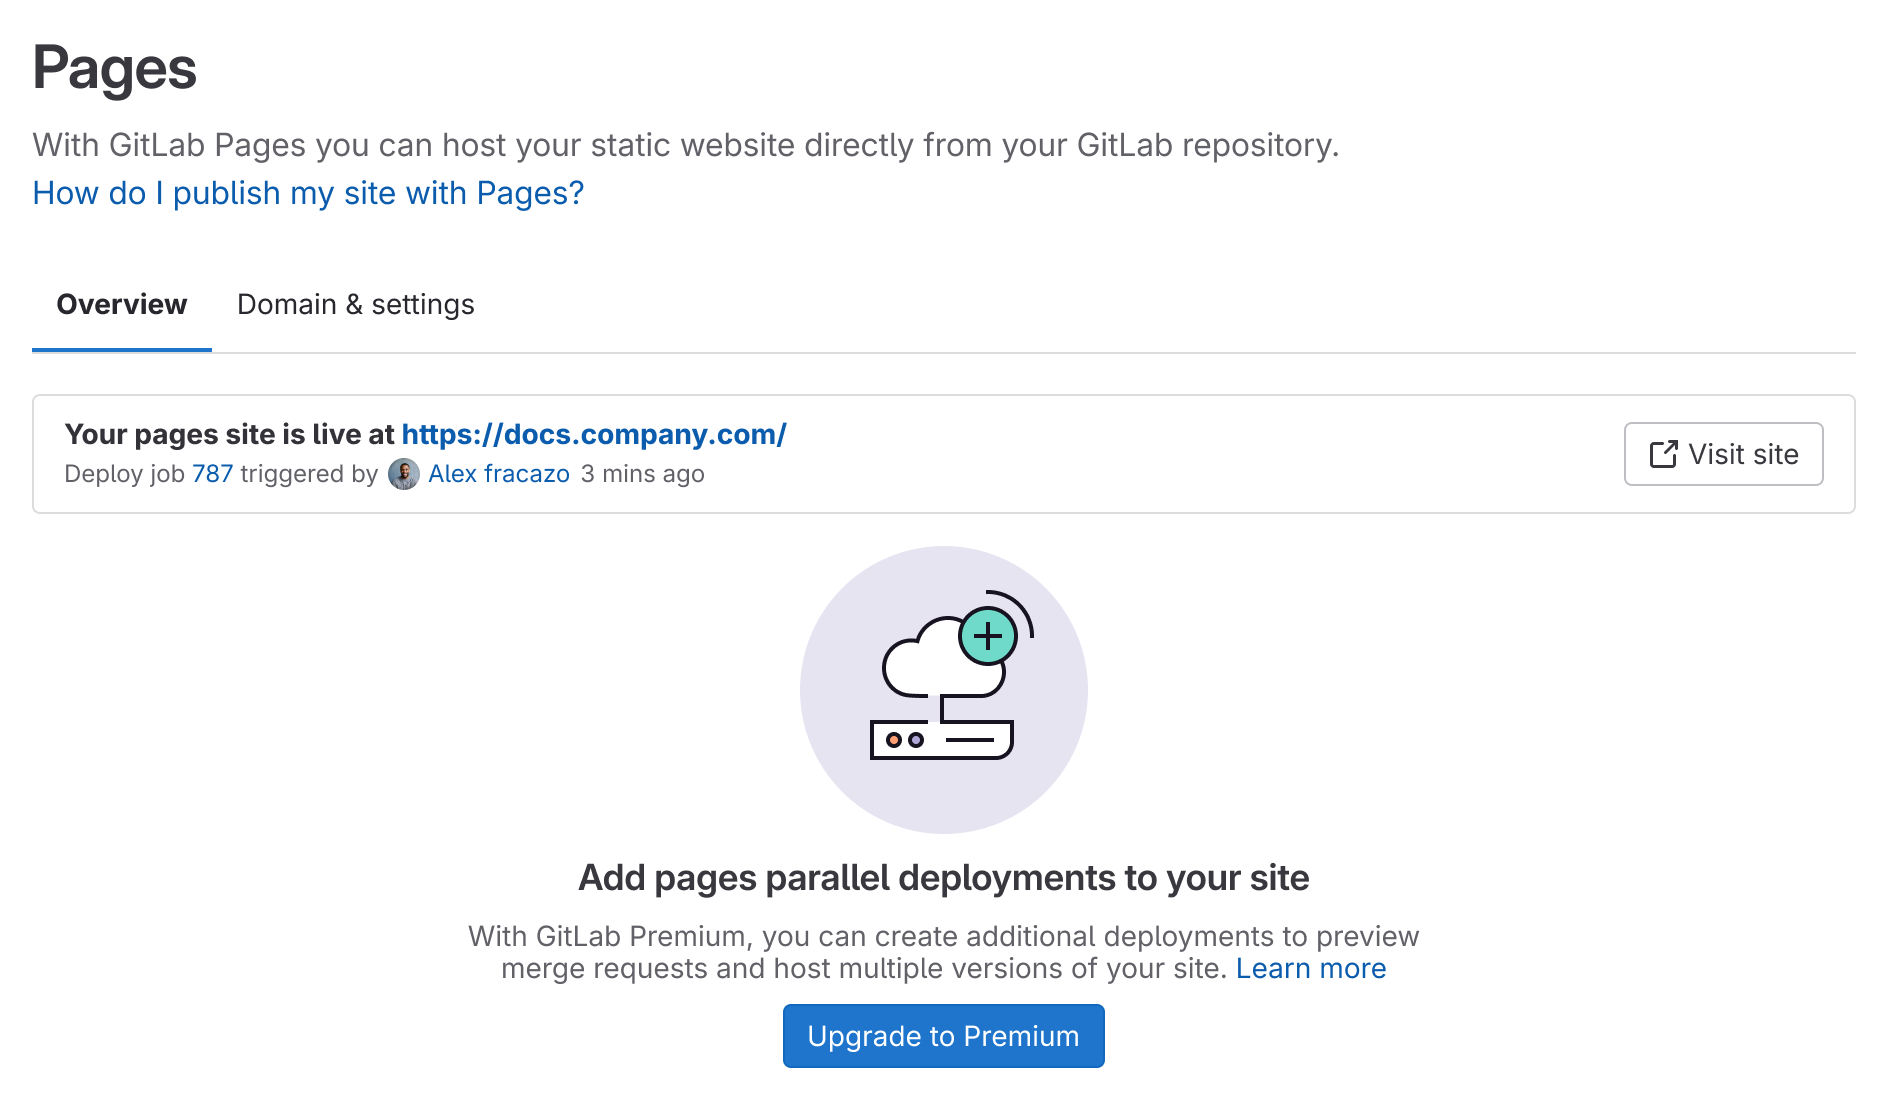
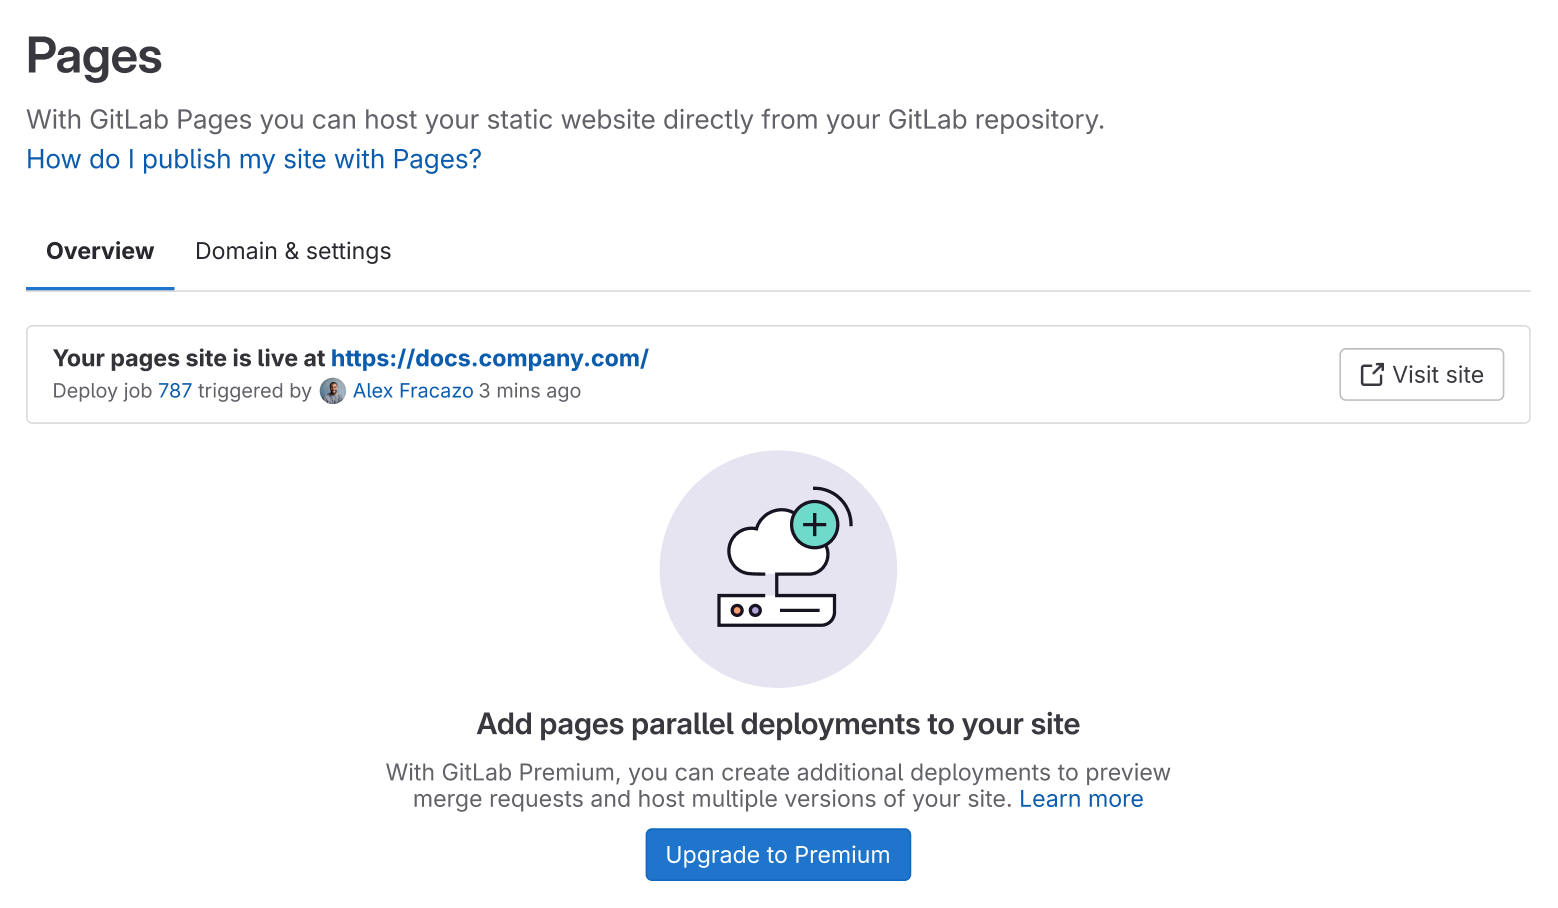
GitLab Pages: re-export the screens after the Figma fixes
Fresh exports of the ten screens after the Figma pass: consistent spacing in the deployment rows, the right name in the live block, matching Domains heading colours, and the limit screen's usage bar with its Manage deployment limit link. The hero is now 1980x1356, and the limit alt text describes the usage bar and link.

diff --git a/src/components/case-studies/gitlab-pages.tsx b/src/components/case-studies/gitlab-pages.tsx
@@ -36,7 +36,7 @@ export function GitlabPagesContent({
       ]}
       link={{ href: "https://docs.gitlab.com/user/project/pages/", label: "docs.gitlab.com/user/project/pages" }}
       hero={
-        <img src="/images/gitlab-pages-hero.webp" width={2400} height={1644} alt="The redesigned GitLab Pages overview: three tabs, a block reading Your pages site is live at docs.company.com with the deploy job and a Visit site button, and four recent Pages deployments under a 3 of 100 deploys used badge" />
+        <img src="/images/gitlab-pages-hero.webp" width={1980} height={1356} alt="The redesigned GitLab Pages overview: three tabs, a block reading Your pages site is live at docs.company.com with the deploy job and a Visit site button, and four recent Pages deployments under a 3 of 100 deploys used badge" />
       }
     >
       <section className="section case-study-content">
@@ -126,7 +126,7 @@ export function GitlabPagesContent({
               }}
               after={{
                 src: "/images/gitlab-pages-deployments-limit.webp",
-                alt: "Pages deployments tab at its limit: a red 100 of 100 deploys used badge and a red message saying the pipeline is blocked, that three merge request deployments expire in 23 hours, and how to resume deployments",
+                alt: "Pages deployments tab at its limit: a red 100 of 100 deploys used badge, a red message saying the pipeline is blocked and that three merge request deployments expire in 23 hours, and a Reached pages deployment limit usage bar with a Manage deployment limit link",
               }}
               caption={<>The Pages deployments tab. Within the limit, the main site sits apart from merge request previews, with a toggle for stopped deployments. At the limit, the badge turns red and the block says the pipeline is blocked, when the next previews expire, and how to clear space.</>}
             />
